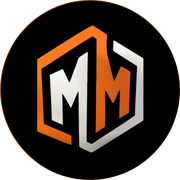
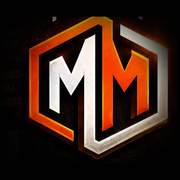
Atualiza site pra nova identidade visual da Adega MM
Cliente trocou de logo: agora é "ADEGA" + hexágono MM + "DISTRIBUIDORA
DE BEBIDAS", em preto e laranja mais forte (antes era só o selo
circular do cardápio). Ajustes:

- Novo logo extraído da arte enviada pelo cliente (hexágono recortado
  com vinheta, sem o crop circular antigo) usado no favicon, ícone do
  app, cabeçalho e rodapé.
- Nova imagem do lockup completo (ADEGA + hexágono + DISTRIBUIDORA DE
  BEBIDAS) como destaque na home e no topo do cardápio.
- Paleta recalibrada a partir da arte nova: preto quase puro
  (#090602) no lugar do cinza-chumbo antigo, laranja mais vermelho
  (#f4500a) no lugar do laranja mais amarelado.
- Trocada a fonte de título: script "Pacifico" deu lugar à "Anton"
  (caixa-alta condensada), que é o estilo da logo nova — usada nos
  títulos de seção, cabeçalho, rodapé e tela de abertura.
- Textos "Bebidas & Tabacaria" trocados por "Distribuidora de
  Bebidas", acompanhando o novo texto da logo.

Cardápio conferido contra o PDF atualizado enviado — mesmos itens e
preços de antes, nenhuma mudança de conteúdo necessária.

Claude-Session: https://claude.ai/code/session_01Vd5U2V4jWR3RHpB7Wbkpvd

diff --git a/assets/css/style.css b/assets/css/style.css
@@ -1,19 +1,19 @@
-/* Cores e tipografia tiradas do cardápio oficial da Adega MM: laranja
-   vibrante, preto e um script encorpado nos títulos. */
-@import url('https://fonts.googleapis.com/css2?family=Pacifico&family=Poppins:wght@300;400;500;600;700&display=swap');
+/* Cores e tipografia da identidade nova da Adega MM: preto quase puro,
+   laranja forte e uma caixa-alta condensada bem robusta nos títulos. */
+@import url('https://fonts.googleapis.com/css2?family=Anton&family=Poppins:wght@300;400;500;600;700&display=swap');
 
 :root {
-  --orange: #fa7d27;
-  --orange-light: #ff9a4d;
-  --orange-dim: #c9601a;
-  --black: #141110;
-  --black-soft: #1d1815;
-  --card: #241d18;
-  --border: #3a2e24;
-  --rule: #362a21;
+  --orange: #f4500a;
+  --orange-light: #ff8a4a;
+  --orange-dim: #b53c08;
+  --black: #090602;
+  --black-soft: #140e09;
+  --card: #1f1811;
+  --border: #3d2c1e;
+  --rule: #302216;
   --text: #f7ede2;
-  --text-dim: #c2ab97;
-  --display: 'Pacifico', cursive;
+  --text-dim: #c2a98f;
+  --display: 'Anton', 'Arial Narrow', sans-serif;
   --max-width: 720px;
 }
 
@@ -39,7 +39,7 @@ a { color: inherit; }
   position: sticky;
   top: 0;
   z-index: 50;
-  background: rgba(20, 17, 16, 0.96);
+  background: rgba(9, 6, 2, 0.96);
   backdrop-filter: blur(6px);
   border-bottom: 1px solid var(--border);
 }
@@ -61,17 +61,17 @@ a { color: inherit; }
 }
 
 .brand-logo {
-  width: 36px;
+  width: 38px;
   height: auto;
-  border-radius: 50%;
 }
 
 .brand-text {
   font-family: var(--display);
   font-weight: 400;
-  letter-spacing: 0.5px;
+  letter-spacing: 1px;
+  text-transform: uppercase;
   color: var(--orange);
-  font-size: 1.15rem;
+  font-size: 1.05rem;
   line-height: 1;
 }
 
@@ -116,63 +116,35 @@ a { color: inherit; }
   border-color: var(--orange);
 }
 
-/* Hero */
+/* Hero: a arte da logo nova (ADEGA + hexágono MM + DISTRIBUIDORA DE
+   BEBIDAS) já carrega a marca inteira, então o hero só a exibe por cima
+   do preto de fundo, sem recorte nem gradiente laranja por trás. */
 .hero {
   position: relative;
-  height: 40vh;
-  min-height: 230px;
-  max-height: 360px;
-  overflow: hidden;
   background:
-    radial-gradient(120% 140% at 50% 0%, var(--orange-light) 0%, var(--orange) 45%, var(--orange-dim) 100%);
-}
-
-.hero::before {
-  content: '';
-  position: absolute;
-  inset: 0;
-  background: linear-gradient(180deg, rgba(20,17,16,0.05) 0%, rgba(20,17,16,0.35) 55%, var(--black) 100%);
-}
-
-.hero-overlay {
-  position: relative;
-  z-index: 1;
-  height: 100%;
-  display: flex;
-  flex-direction: column;
-  align-items: center;
-  justify-content: flex-end;
+    radial-gradient(70% 90% at 50% 20%, rgba(244,80,10,0.14) 0%, transparent 65%),
+    var(--black);
+  padding: 38px 20px 30px;
   text-align: center;
-  padding-bottom: 22px;
 }
 
-.hero-logo {
-  width: 76px;
-  margin-bottom: 10px;
-  border-radius: 50%;
-  box-shadow: 0 6px 18px rgba(0,0,0,0.35);
+.hero-lockup {
+  width: 72%;
+  max-width: 320px;
+  height: auto;
+  margin: 0 auto;
+  filter: drop-shadow(0 14px 34px rgba(244, 80, 10, 0.25));
 }
 
-.hero-overlay h1 {
-  margin: 0;
+.hero-title {
+  margin: 14px 0 0;
   font-family: var(--display);
   font-weight: 400;
-  font-size: 2.4rem;
-  color: var(--text);
-  text-shadow: 0 2px 10px rgba(0,0,0,0.3);
-}
-
-.hero-overlay p {
-  margin: 6px 0 0;
-  color: var(--black);
-  background: var(--text);
-  padding: 3px 12px;
-  border-radius: 20px;
-  letter-spacing: 3px;
-  text-indent: 3px;
-  font-size: 0.68rem;
-  font-weight: 600;
+  font-size: 1.7rem;
+  letter-spacing: 5px;
+  text-indent: 5px;
   text-transform: uppercase;
+  color: var(--orange);
 }
 
 /* Search */
@@ -223,8 +195,9 @@ main {
 .section-title {
   font-family: var(--display);
   font-weight: 400;
-  font-size: 1.9rem;
-  letter-spacing: 0.5px;
+  font-size: 1.7rem;
+  letter-spacing: 1.5px;
+  text-transform: uppercase;
   color: var(--orange);
   border-bottom: 1px solid var(--orange);
   padding-bottom: 10px;
@@ -412,7 +385,6 @@ main {
 .footer-logo {
   width: 48px;
   margin: 0 auto 10px;
-  border-radius: 50%;
 }
 
 .footer-name {
@@ -420,6 +392,8 @@ main {
   color: var(--orange);
   font-weight: 400;
   font-size: 1.3rem;
+  letter-spacing: 1px;
+  text-transform: uppercase;
   margin: 0 0 8px;
 }
 
@@ -710,16 +684,16 @@ body.cart-open { overflow: hidden; }
     letter-spacing: 0.3px;
   }
 
-  .hero-overlay h1 { font-size: 2rem; }
+  .hero-title { font-size: 1.4rem; letter-spacing: 3px; text-indent: 3px; }
 }
 
-/* Abertura: o preto some, o laranja entra e o logo assenta — o mesmo ritmo
-   da capa do cardápio impresso. Termina sozinha mesmo se o script falhar. */
+/* Abertura: preto de fundo com o hexágono acendendo em laranja, igual à
+   arte da logo. Termina sozinha mesmo se o script falhar. */
 .welcome {
   position: fixed;
   inset: 0;
   z-index: 200;
-  background: var(--orange);
+  background: var(--black);
   display: flex;
   flex-direction: column;
   align-items: center;
@@ -751,7 +725,9 @@ body.cart-open { overflow: hidden; }
   font-family: var(--display);
   font-weight: 400;
   font-size: 2rem;
-  color: #fff;
+  letter-spacing: 1px;
+  text-transform: uppercase;
+  color: var(--text);
   opacity: 0;
   animation: wl-word 0.85s cubic-bezier(0.2, 0.72, 0.2, 1) 0.32s forwards;
 }
@@ -763,10 +739,7 @@ body.cart-open { overflow: hidden; }
 
 .welcome p {
   margin: 0;
-  color: var(--black);
-  background: rgba(20,17,16,0.12);
-  padding: 4px 14px;
-  border-radius: 20px;
+  color: var(--orange);
   font-size: 0.7rem;
   font-weight: 600;
   letter-spacing: 0.3em;

diff --git a/index.html b/index.html
@@ -7,21 +7,21 @@
 <meta name="description" content="Cervejas, doses, garrafas, combos e tabacaria. Peça pelo WhatsApp.">
 <meta property="og:title" content="Adega MM">
 <meta property="og:description" content="Cervejas, doses, garrafas, combos e tabacaria.">
-<meta property="og:image" content="assets/img/logo.png">
+<meta property="og:image" content="assets/img/lockup.jpg">
 <meta property="og:type" content="website">
 <link rel="icon" type="image/png" href="assets/img/favicon.png">
 <link rel="apple-touch-icon" href="assets/img/apple-touch-icon.png">
 <link rel="preconnect" href="https://fonts.googleapis.com">
 <link rel="preconnect" href="https://fonts.gstatic.com" crossorigin>
-<link rel="stylesheet" href="https://fonts.googleapis.com/css2?family=Pacifico&family=Poppins:wght@300;400;500;600&display=swap">
+<link rel="stylesheet" href="https://fonts.googleapis.com/css2?family=Anton&family=Poppins:wght@300;400;500;600&display=swap">
 <style>
   :root {
-    --ink: #141110;
-    --orange: #fa7d27;
-    --orange-light: #ff9a4d;
+    --ink: #090602;
+    --orange: #f4500a;
+    --orange-light: #ff8a4a;
     --text: #f7ede2;
     --text-dim: #ab9a8c;
-    --hairline: rgba(250, 125, 39, 0.2);
+    --hairline: rgba(244, 80, 10, 0.2);
     --glass: rgba(255, 255, 255, 0.035);
   }
 
@@ -34,7 +34,7 @@
     min-height: 100vh;
     min-height: 100dvh;
     background:
-      radial-gradient(120% 70% at 50% -10%, rgba(250,125,39,0.16) 0%, transparent 60%),
+      radial-gradient(120% 70% at 50% -10%, rgba(244,80,10,0.16) 0%, transparent 60%),
       var(--ink);
     color: var(--text);
     font-family: 'Poppins', 'Helvetica Neue', Arial, sans-serif;
@@ -60,29 +60,12 @@
     margin-bottom: 40px;
   }
   .lockup img {
-    width: 108px;
+    width: 82%;
+    max-width: 300px;
     height: auto;
-    margin: 0 auto 18px;
+    margin: 0 auto;
     display: block;
-    border-radius: 50%;
-    box-shadow: 0 10px 30px rgba(250, 125, 39, 0.18);
-  }
-  .wordmark {
-    font-family: 'Pacifico', cursive;
-    font-weight: 400;
-    font-size: 2.5rem;
-    line-height: 1;
-    margin: 0;
-    color: var(--orange);
-  }
-  .sub-mark {
-    margin: 12px 0 0;
-    font-size: 0.62rem;
-    font-weight: 500;
-    letter-spacing: 0.42em;
-    text-indent: 0.42em;
-    text-transform: uppercase;
-    color: var(--text-dim);
+    filter: drop-shadow(0 14px 32px rgba(244, 80, 10, 0.22));
   }
   .rule {
     width: 34px;
@@ -131,10 +114,10 @@
   }
 
   .card.primary {
-    background: linear-gradient(180deg, rgba(250,125,39,0.14) 0%, rgba(250,125,39,0.05) 100%);
-    border-color: rgba(250, 125, 39, 0.4);
+    background: linear-gradient(180deg, rgba(244,80,10,0.14) 0%, rgba(244,80,10,0.05) 100%);
+    border-color: rgba(244, 80, 10, 0.4);
   }
-  .card.primary:hover { border-color: rgba(250, 125, 39, 0.68); }
+  .card.primary:hover { border-color: rgba(244, 80, 10, 0.68); }
 
   .card .icon {
     flex: 0 0 auto;
@@ -182,7 +165,7 @@
   .map-frame {
     position: relative;
     height: 168px;
-    background: #1d1815;
+    background: #140e09;
     border-bottom: 1px solid rgba(255, 255, 255, 0.07);
     overflow: hidden;
   }
@@ -196,7 +179,7 @@
     gap: 9px;
     color: var(--text-dim);
     background:
-      radial-gradient(120% 90% at 50% 40%, rgba(250,125,39,0.1) 0%, transparent 70%),
+      radial-gradient(120% 90% at 50% 40%, rgba(244,80,10,0.1) 0%, transparent 70%),
       repeating-linear-gradient(90deg, rgba(255,255,255,0.028) 0 1px, transparent 1px 34px),
       repeating-linear-gradient(0deg, rgba(255,255,255,0.028) 0 1px, transparent 1px 34px);
   }
@@ -261,7 +244,7 @@
 
   @media (min-width: 480px) {
     .wrap { padding-top: 80px; }
-    .wordmark { font-size: 2.8rem; }
+    .lockup img { max-width: 340px; }
   }
 </style>
 </head>
@@ -270,9 +253,7 @@
 <div class="wrap">
 
   <header class="lockup reveal">
-    <img src="assets/img/logo.png" alt="Adega MM">
-    <h1 class="wordmark">Adega MM</h1>
-    <p class="sub-mark">Bebidas &amp; Tabacaria</p>
+    <img src="assets/img/lockup.jpg" alt="Adega MM — Distribuidora de Bebidas">
     <hr class="rule">
     <p class="tagline">Cerveja gelada, doses e combos<br>pra sua night</p>
   </header>

diff --git a/cardapio.html b/cardapio.html
@@ -23,7 +23,7 @@
   <div class="header-inner">
     <a href="index.html" class="brand">
       <img src="assets/img/logo.png" alt="Adega MM" class="brand-logo">
-      <span class="brand-text">Adega MM <small>Bebidas &amp; Tabacaria</small></span>
+      <span class="brand-text">Adega MM <small>Distribuidora de Bebidas</small></span>
     </a>
   </div>
   <nav class="site-nav" id="siteNav">
@@ -38,11 +38,8 @@
 </header>
 
 <div id="topo" class="hero">
-  <div class="hero-overlay">
-    <img src="assets/img/logo.png" alt="" class="hero-logo">
-    <h1>Cardápio</h1>
-    <p>Adega MM</p>
-  </div>
+  <img src="assets/img/lockup.jpg" alt="Adega MM — Distribuidora de Bebidas" class="hero-lockup">
+  <p class="hero-title">Cardápio</p>
 </div>
 
 <div class="search-bar">
